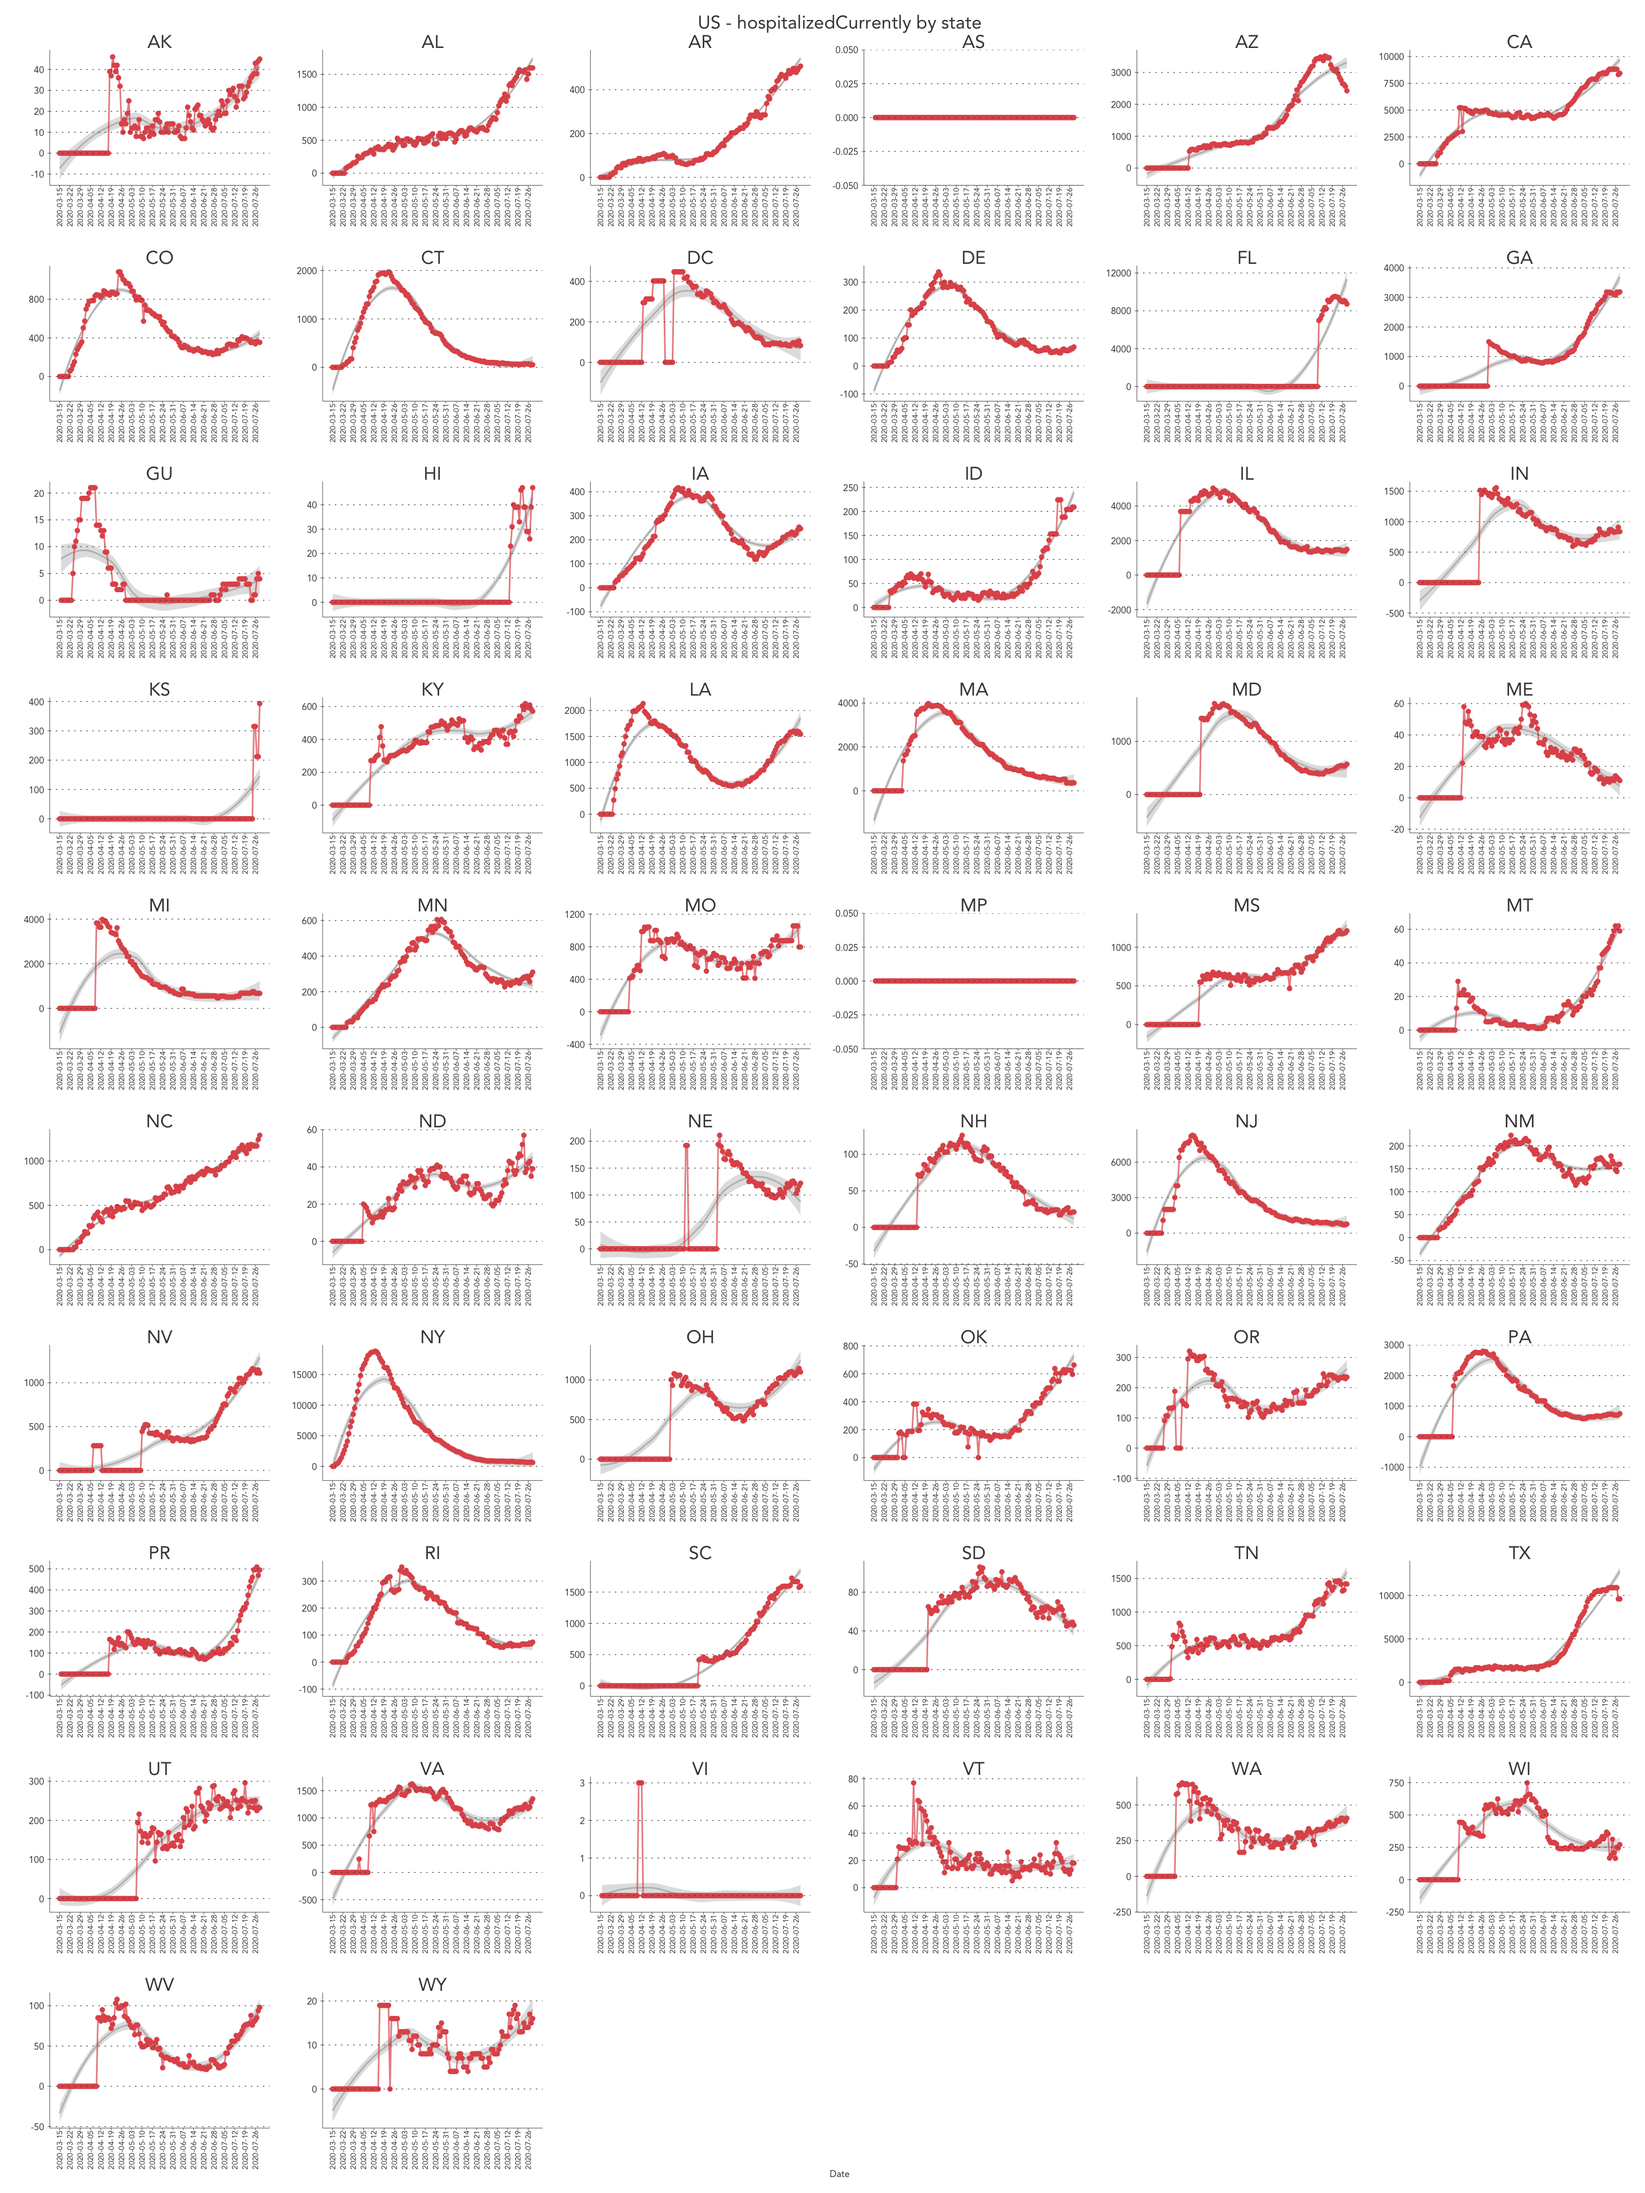
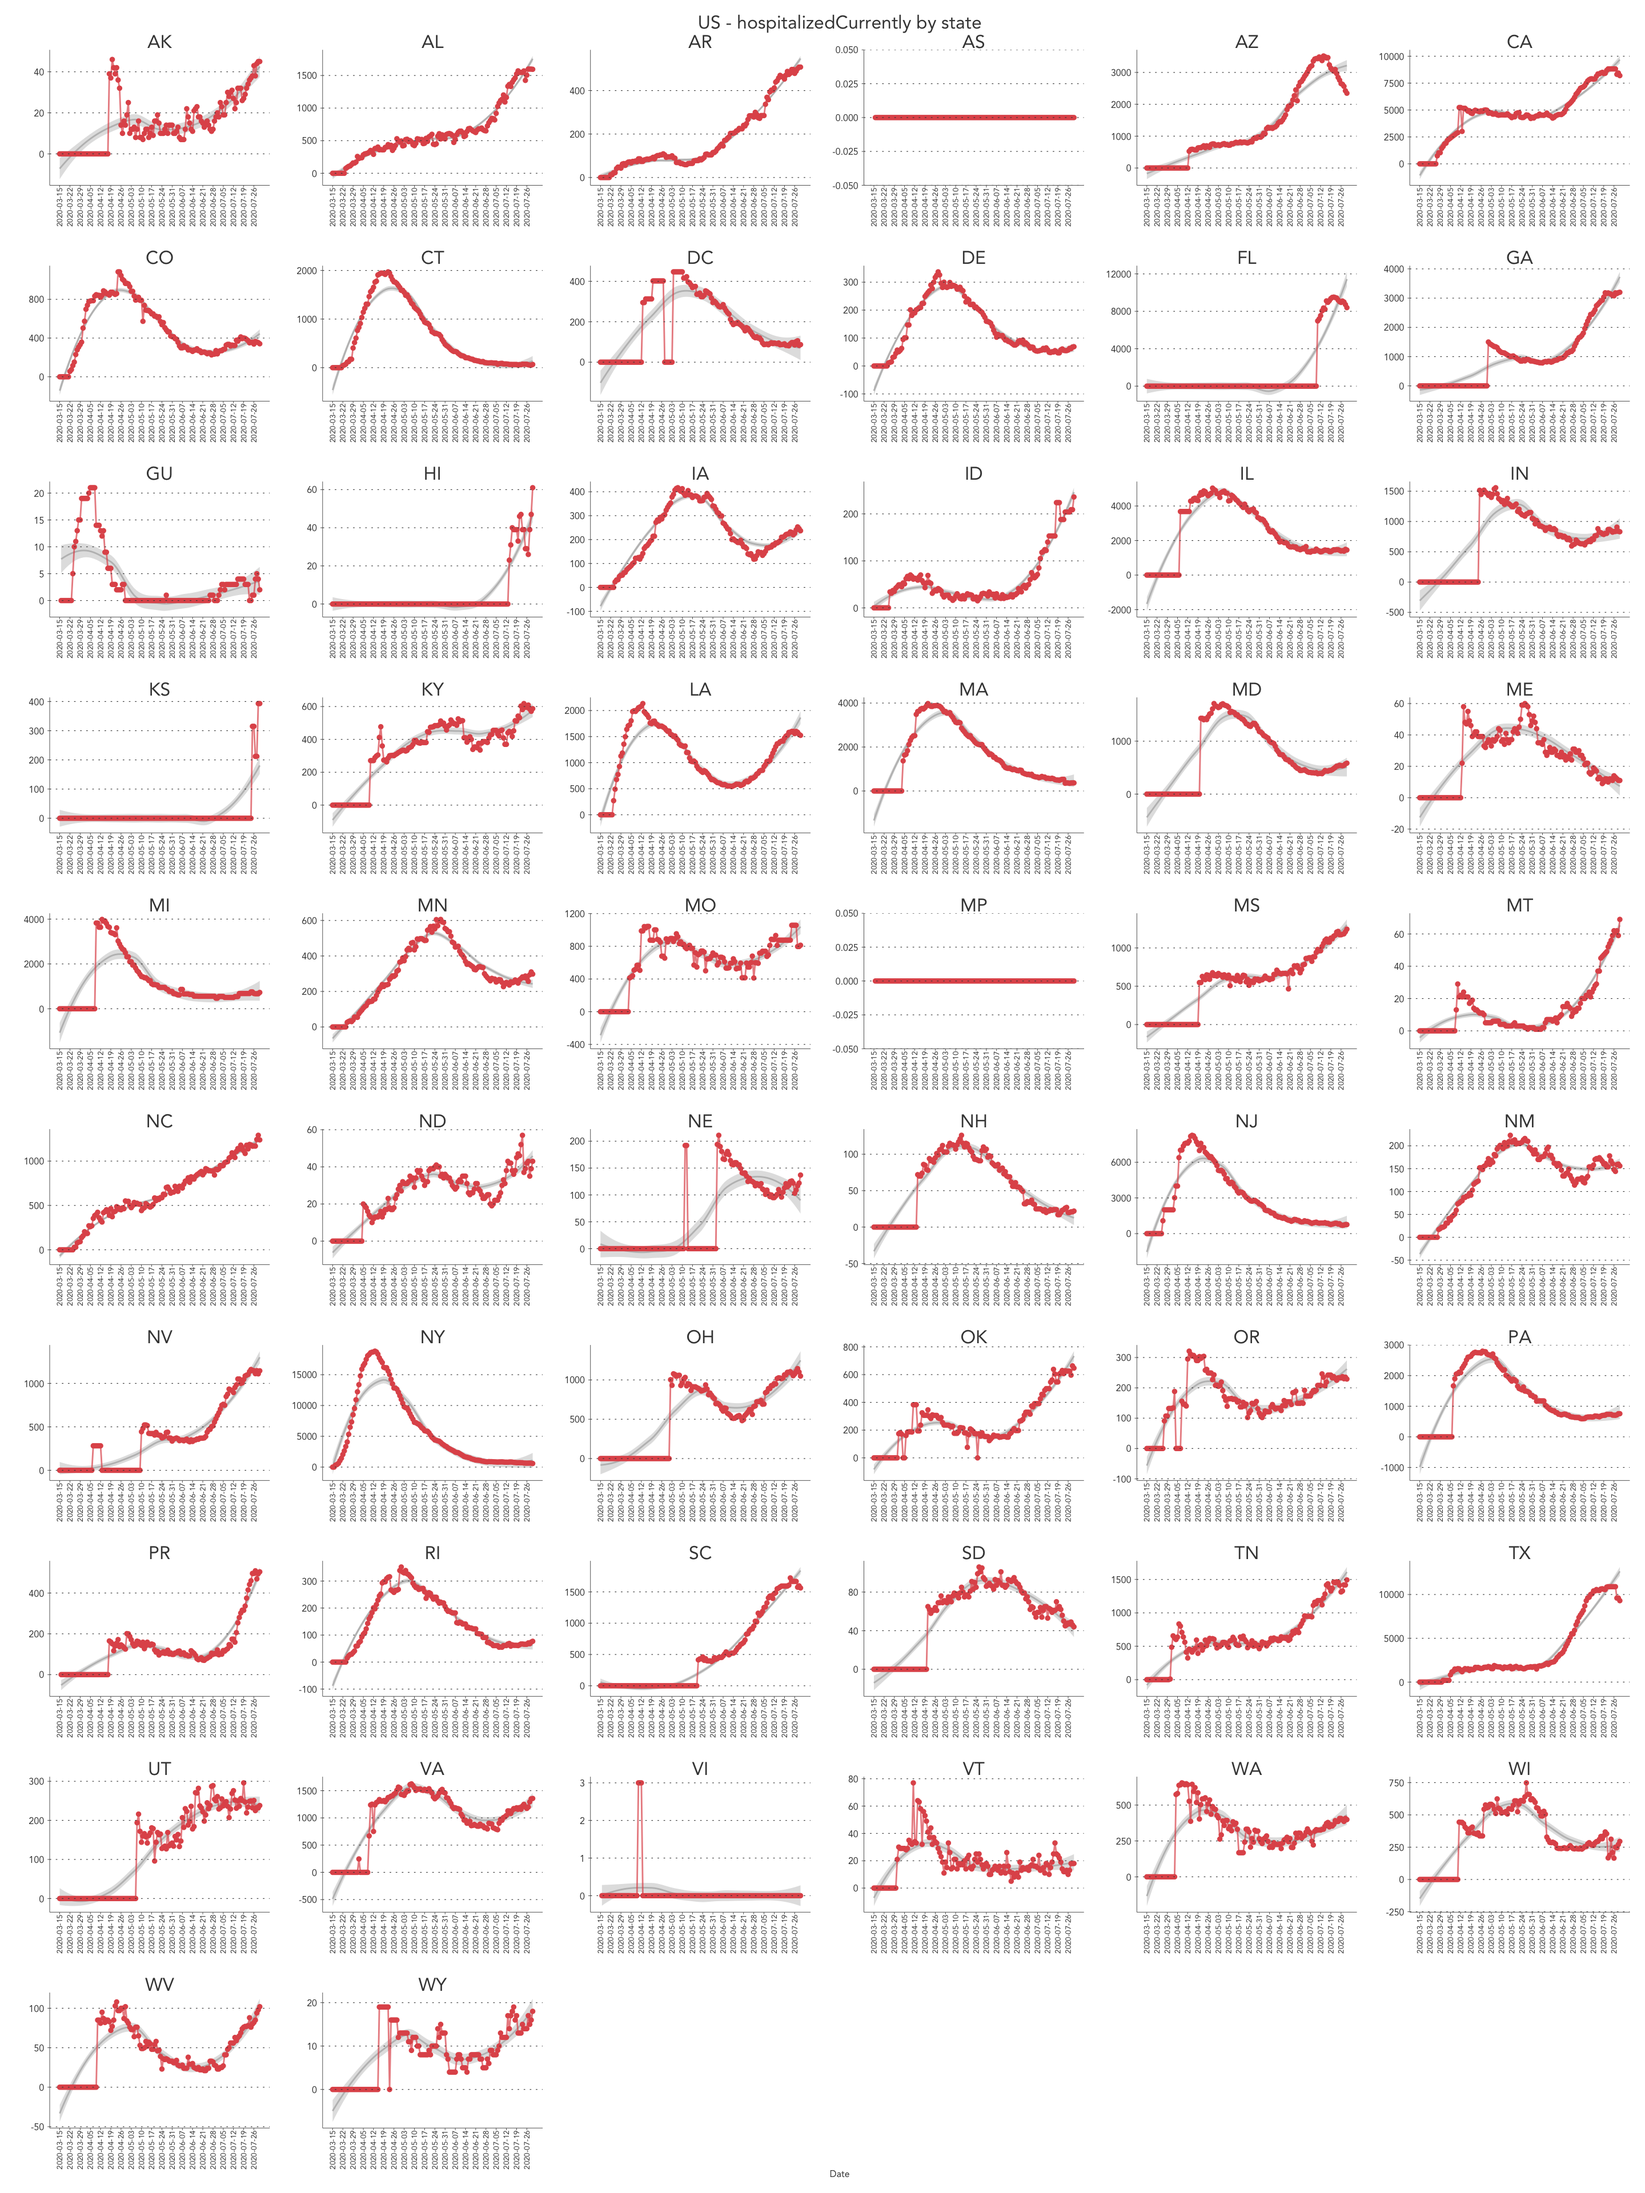
updates

diff --git a/covid19-vis.html b/covid19-vis.html
@@ -311,16 +311,16 @@ population
 <tbody>
 <tr>
 <td style="text-align:left;">
-2020-07-29
+2020-07-30
 </td>
 <td style="text-align:left;">
 AK
 </td>
 <td style="text-align:right;">
-3442
+3559
 </td>
 <td style="text-align:right;">
-220222
+221498
 </td>
 <td style="text-align:right;">
 0
@@ -344,43 +344,43 @@ AK
 0
 </td>
 <td style="text-align:right;">
-854
+885
 </td>
 <td style="text-align:left;">
 A
 </td>
 <td style="text-align:left;">
-7/29/2020 00:00
+7/30/2020 00:00
 </td>
 <td style="text-align:left;">
-2020-07-29T00:00:00Z
+2020-07-30T00:00:00Z
 </td>
 <td style="text-align:left;">
-07/28 20:00
+07/29 20:00
 </td>
 <td style="text-align:right;">
-22
+23
 </td>
 <td style="text-align:right;">
 0
 </td>
 <td style="text-align:left;">
-2020-07-29T00:00:00Z
+2020-07-30T00:00:00Z
 </td>
 <td style="text-align:right;">
-223664
-</td>
-<td style="text-align:right;">
-0
+225057
 </td>
 <td style="text-align:right;">
 0
 </td>
 <td style="text-align:right;">
-3442
+0
 </td>
 <td style="text-align:right;">
-22
+3559
+</td>
+<td style="text-align:right;">
+23
 </td>
 <td style="text-align:right;">
 0
@@ -389,31 +389,31 @@ A
 2
 </td>
 <td style="text-align:right;">
-92
+117
 </td>
 <td style="text-align:right;">
-9697
+1276
 </td>
 <td style="text-align:right;">
-223664
+225057
 </td>
 <td style="text-align:right;">
-223664
+225057
 </td>
 <td style="text-align:right;">
-9789
+1393
 </td>
 <td style="text-align:right;">
-223664
+225057
 </td>
 <td style="text-align:right;">
-0
+1
 </td>
 <td style="text-align:right;">
 0
 </td>
 <td style="text-align:left;">
-e3c05df1cf92b9c80941cec8daaf723905e7a0dd
+d66445af73028a02a5d6713580a4c470cc603322
 </td>
 <td style="text-align:right;">
 0
@@ -439,64 +439,64 @@ e3c05df1cf92b9c80941cec8daaf723905e7a0dd
 </tr>
 <tr>
 <td style="text-align:left;">
-2020-07-29
+2020-07-30
 </td>
 <td style="text-align:left;">
 AL
 </td>
 <td style="text-align:right;">
-83782
+85762
 </td>
 <td style="text-align:right;">
-584493
-</td>
-<td style="text-align:right;">
-0
-</td>
-<td style="text-align:right;">
-1598
-</td>
-<td style="text-align:right;">
-9893
+594346
 </td>
 <td style="text-align:right;">
 0
 </td>
 <td style="text-align:right;">
-1109
+1595
+</td>
+<td style="text-align:right;">
+10070
 </td>
 <td style="text-align:right;">
 0
 </td>
 <td style="text-align:right;">
-595
+1129
 </td>
 <td style="text-align:right;">
-32510
+0
+</td>
+<td style="text-align:right;">
+605
+</td>
+<td style="text-align:right;">
+35401
 </td>
 <td style="text-align:left;">
 B
 </td>
 <td style="text-align:left;">
-7/29/2020 11:00
+7/30/2020 11:00
 </td>
 <td style="text-align:left;">
-2020-07-29T11:00:00Z
+2020-07-30T11:00:00Z
 </td>
 <td style="text-align:left;">
-07/29 07:00
+07/30 07:00
 </td>
 <td style="text-align:right;">
-1538
+1565
 </td>
 <td style="text-align:right;">
-9893
+10070
 </td>
 <td style="text-align:left;">
-2020-07-29T11:00:00Z
+2020-07-30T11:00:00Z
 </td>
 <td style="text-align:right;">
-666065
+677841
 </td>
 <td style="text-align:right;">
 0
@@ -505,10 +505,10 @@ B
 0
 </td>
 <td style="text-align:right;">
-81572
+83495
 </td>
 <td style="text-align:right;">
-1489
+1516
 </td>
 <td style="text-align:right;">
 49
@@ -517,31 +517,31 @@ B
 1
 </td>
 <td style="text-align:right;">
-1416
+1980
 </td>
 <td style="text-align:right;">
-1460
+9853
 </td>
 <td style="text-align:right;">
-668275
+680108
 </td>
 <td style="text-align:right;">
-668275
+680108
 </td>
 <td style="text-align:right;">
-2876
+11833
 </td>
 <td style="text-align:right;">
-668275
+680108
 </td>
 <td style="text-align:right;">
-47
+27
 </td>
 <td style="text-align:right;">
-0
+177
 </td>
 <td style="text-align:left;">
-a7b049cfd14780e56e6ef98fb2aba9f82fe89838
+5776f9724a3452e48705a9b2c73f52d3e631229d
 </td>
 <td style="text-align:right;">
 0
@@ -567,16 +567,16 @@ a7b049cfd14780e56e6ef98fb2aba9f82fe89838
 </tr>
 <tr>
 <td style="text-align:left;">
-2020-07-29
+2020-07-30
 </td>
 <td style="text-align:left;">
 AR
 </td>
 <td style="text-align:right;">
-40968
+41759
 </td>
 <td style="text-align:right;">
-454637
+460958
 </td>
 <td style="text-align:right;">
 0
@@ -600,40 +600,40 @@ AR
 387
 </td>
 <td style="text-align:right;">
-33938
+34737
 </td>
 <td style="text-align:left;">
 A
 </td>
 <td style="text-align:left;">
-7/29/2020 14:40
+7/30/2020 14:40
 </td>
 <td style="text-align:left;">
-2020-07-29T14:40:00Z
+2020-07-30T14:40:00Z
 </td>
 <td style="text-align:left;">
-07/29 10:40
+07/30 10:40
 </td>
 <td style="text-align:right;">
-434
+442
 </td>
 <td style="text-align:right;">
 2747
 </td>
 <td style="text-align:left;">
-2020-07-29T14:40:00Z
+2020-07-30T14:40:00Z
 </td>
 <td style="text-align:right;">
-495605
-</td>
-<td style="text-align:right;">
-0
+502717
 </td>
 <td style="text-align:right;">
 0
 </td>
 <td style="text-align:right;">
-40968
+0
+</td>
+<td style="text-align:right;">
+41759
 </td>
 <td style="text-align:right;">
 0
@@ -645,31 +645,31 @@ A
 5
 </td>
 <td style="text-align:right;">
-787
+791
 </td>
 <td style="text-align:right;">
-4912
+6321
 </td>
 <td style="text-align:right;">
-495605
+502717
 </td>
 <td style="text-align:right;">
-495605
+502717
 </td>
 <td style="text-align:right;">
-5699
+7112
 </td>
 <td style="text-align:right;">
-495605
+502717
 </td>
 <td style="text-align:right;">
-6
+8
 </td>
 <td style="text-align:right;">
-61
+0
 </td>
 <td style="text-align:left;">
-e1fad45c3dbf16efc7ddd84400b3629a9c824a71
+bd75bdc3753d8af0a8614e5c5b7091ff017bc1bf
 </td>
 <td style="text-align:right;">
 0
